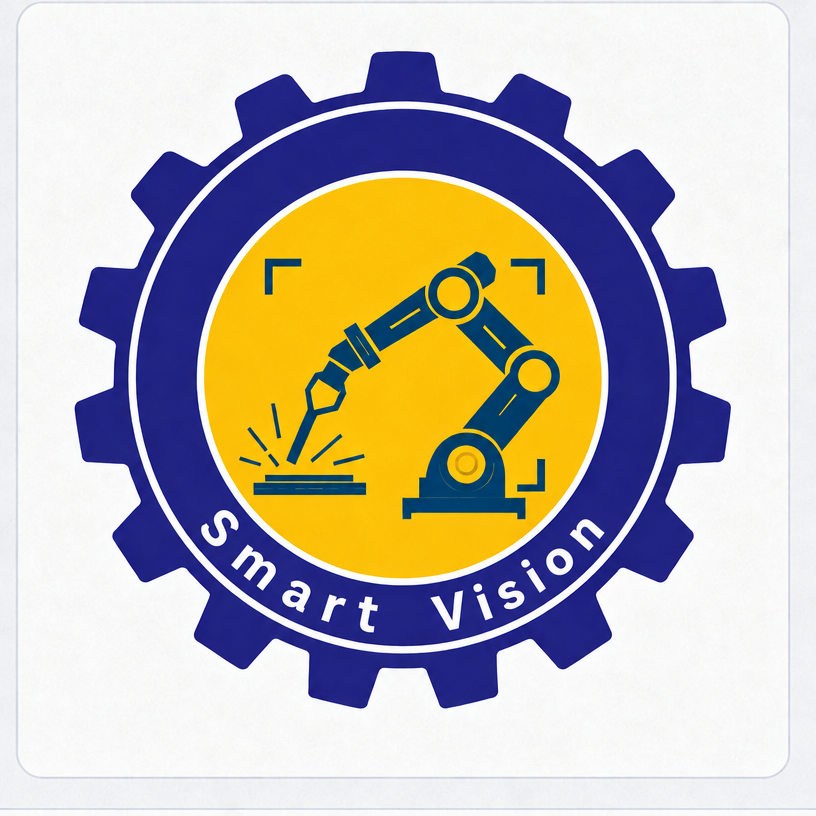
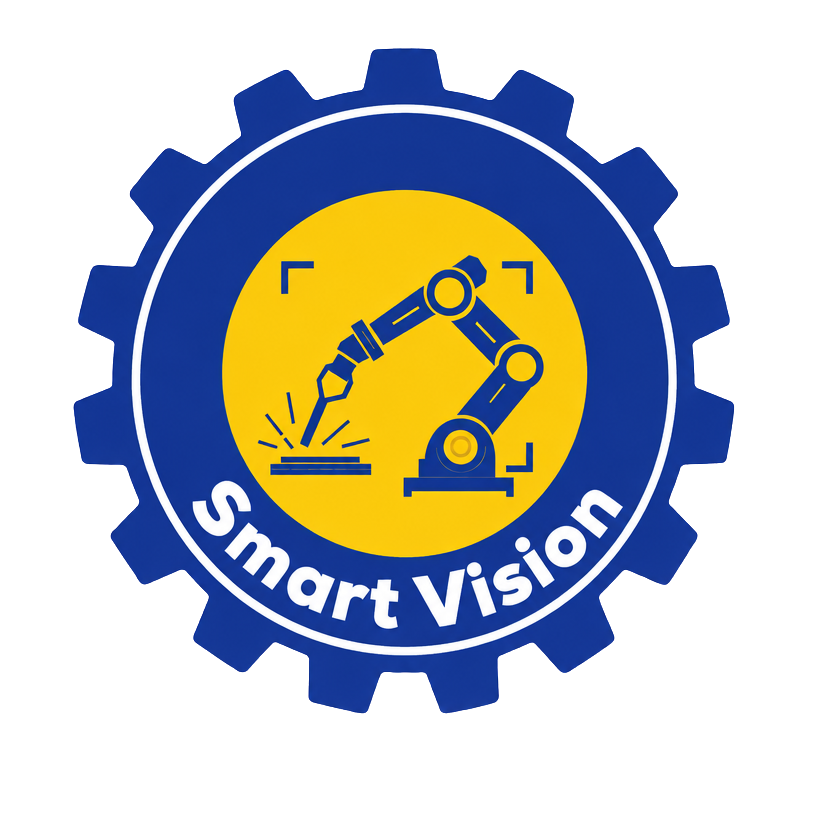
更新透明Logo，优化导航与标定按钮布局

diff --git a/frontend/src/components/AppHeader.module.css b/frontend/src/components/AppHeader.module.css
@@ -1,7 +1,7 @@
 .header { display:flex; align-items:center; gap:14px; width:100%; height:76px; min-height:76px; padding:0 20px; border:1px solid #edf3f3; border-radius:14px; background:linear-gradient(105deg,#e6eded,#dce6e9); color:#536b79; box-sizing:border-box; white-space:nowrap; overflow-x:auto; scrollbar-width:thin; grid-column:1 / -1; }
 .header button { display:inline-flex; align-items:center; justify-content:center; gap:6px; background:transparent; color:inherit; border:0; padding:0; cursor:pointer; font:inherit; flex-shrink:0; }
 .header .brand { gap:14px; color:#243540; }
-.brand img { width:44px; height:44px; object-fit:contain; }
+.brand img { width:68px; height:68px; object-fit:contain; }
 .brand strong { font-size:25px; font-weight:750; }
 .header nav { display:flex; align-items:center; justify-content:flex-start; flex:1; gap:24px; min-width:0; margin-left:30px; height:100%; }
 .header nav button { font-size:16px; height:40px; }
@@ -20,7 +20,7 @@
 
 /* Isolate shared geometry from the acquisition grid and legacy PDF selectors. */
 .header { flex: 0 0 76px; max-height: 76px; margin: 0; font: 16px/1.25 Arial, "Microsoft YaHei", "Noto Sans CJK SC", sans-serif; letter-spacing: 0; }
-.header .brand img { width: 44px; height: 44px; min-width: 44px; max-width: 44px; flex: 0 0 44px; }
+.header .brand img { width: 68px; height: 68px; min-width: 68px; max-width: 68px; flex: 0 0 68px; }
 .header button { line-height: 1.25; letter-spacing: 0; }
 .header nav button { font-weight: 400; }
 .header svg { flex-shrink: 0; }
@@ -29,3 +29,7 @@
 .header { position: fixed; top: 10px; left: 12px; right: 12px; width: auto; z-index: 60; }
 .health, .tools { flex-shrink: 0; }
 .header nav { flex-shrink: 0; }
+
+/* Transparent artwork retains the complete gear outline and white lettering. */
+.header .brand img { object-fit: contain; clip-path: none; mix-blend-mode: normal; }
+.dark .brand img { mix-blend-mode: normal; }

diff --git a/frontend/src/app/pdf-layout.css b/frontend/src/app/pdf-layout.css
@@ -959,3 +959,8 @@ html, body { width: 100%; height: 100%; margin: 0; overflow: hidden; background:
 .pdf-app .page-6 .file-transfer-result > p { font-size: 12px; overflow-wrap: anywhere; }
 .pdf-app .page-6 .file-transfer-result > .secondary { padding: 5px 8px; min-height: 28px; font-size: 12px; }
 .pdf-app .page-6 .viewer { flex: 1 1 0; min-height: 0; }
+
+/* Calibration actions must fit the narrow workflow sidebar. */
+.pdf-app .page-3 .calibration-buttons { display: grid; grid-template-columns: repeat(2, minmax(0, 1fr)); gap: 8px; }
+.pdf-app .page-3 .calibration-buttons > button { width: 100%; min-width: 0; margin: 0; padding: 8px 6px; min-height: 36px; font-size: 14px; line-height: 1.3; white-space: nowrap; }
+.pdf-app .page-3 .calibration-buttons > button:last-child { grid-column: 1 / -1; }

diff --git a/frontend/src/components/WorkflowControls.tsx b/frontend/src/components/WorkflowControls.tsx
@@ -485,8 +485,9 @@ export default function WorkflowControls({
               <button
                 type="button"
                 className="text-button wide"
-                disabled={pending || !state.calibration?.has_calib}
+                disabled={pending || !state.frame}
                 onClick={onClear}
+                title={!state.frame ? "请先选择点云帧" : "清除当前帧保存的标定，需再次确认"}
               >
                 清除标定
               </button>

diff --git a/frontend/src/components/BrandMark.tsx b/frontend/src/components/BrandMark.tsx
@@ -6,8 +6,8 @@ export default function BrandMark() {
       className="brand-symbol"
       src="/brand/smart-vision.png"
       alt=""
-      width={48}
-      height={48}
+      width={68}
+      height={68}
       priority
       unoptimized
     />
